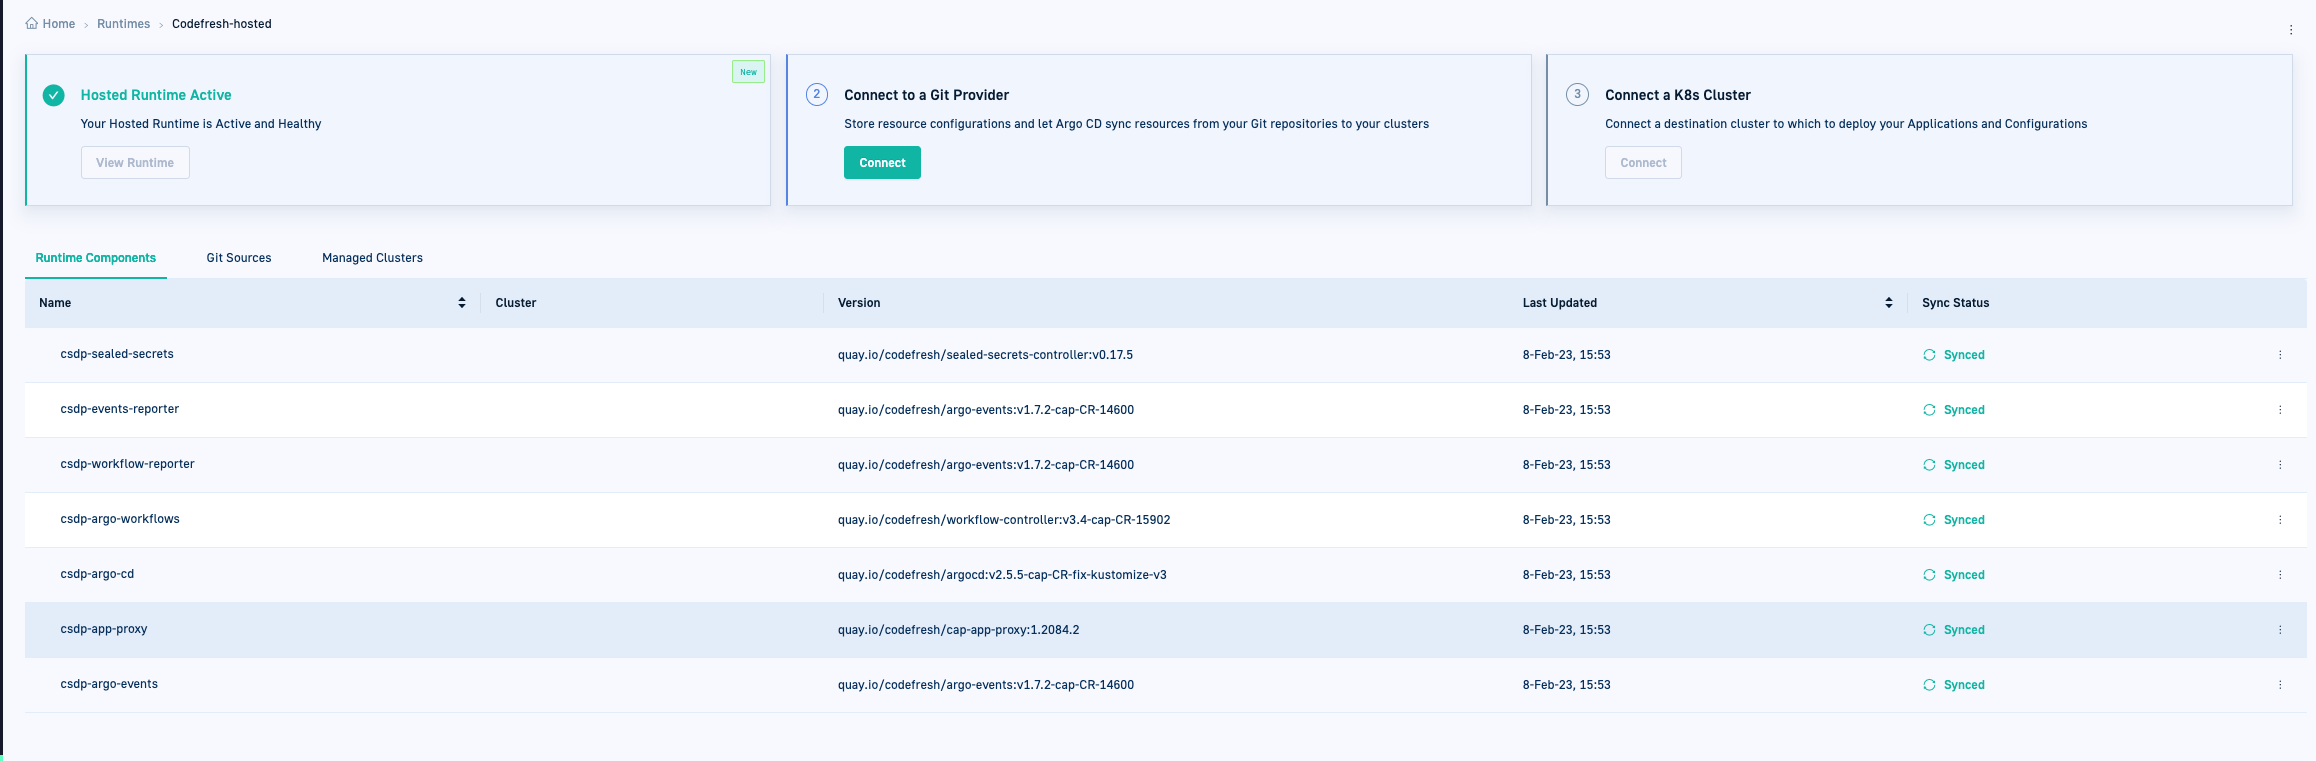
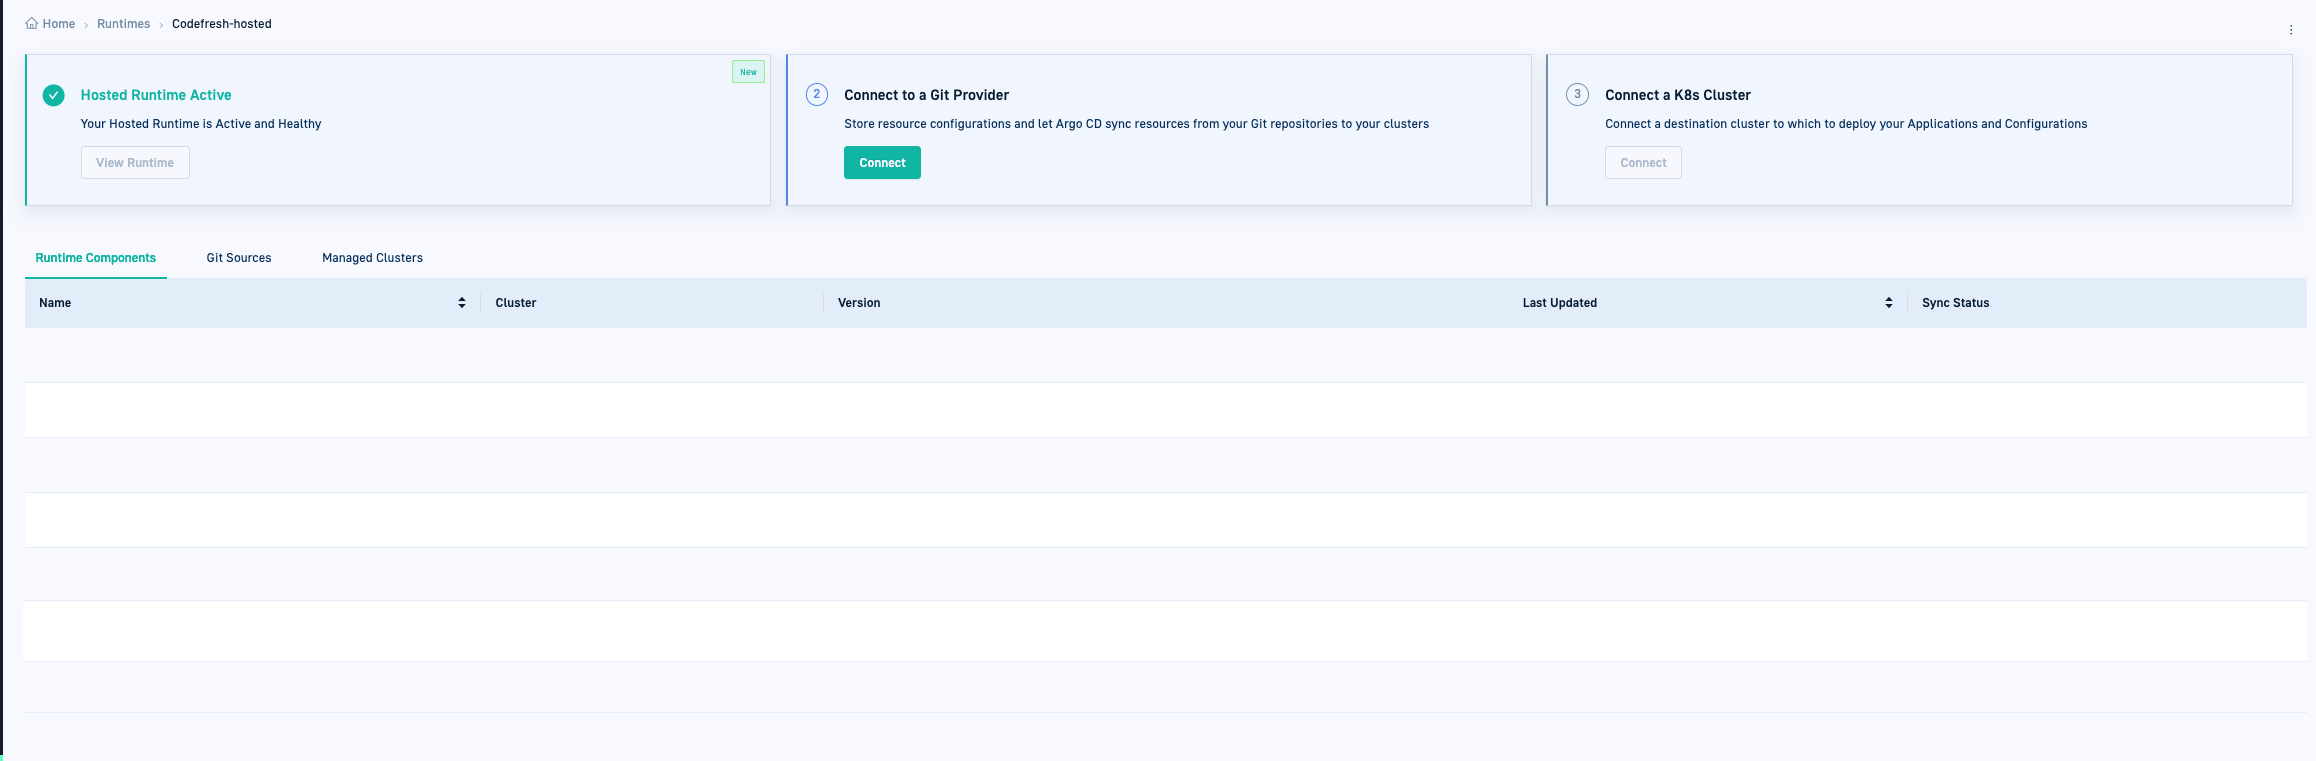
Updated hosted runtime
Updated screenshot and added note on empty Runtime Components tab

diff --git a/_docs/installation/gitops/hosted-runtime.md b/_docs/installation/gitops/hosted-runtime.md
@@ -47,8 +47,8 @@ max-width="80%"
 
 
 
-## Before you begin
-* Set up integrations with the Git provider for the Hosted GitOps Runtime
+## Prerequisites
+* Set up integrations with the Git provider for the Hosted GitOps Runtime:
   * GitHub
   * Bitbucket Cloud
   * Gerrit
@@ -86,7 +86,8 @@ max-width="80%"
 
 {:start="3"}
 1. When complete, to view the components for the Hosted GitOps Runtime, click **View Runtime**.
-  You are directed to the Runtime Components tab.  
+  You are directed to the Runtime Components tab which is empty as Runtime components are hosted and managed by Codefresh.   
+  When Argo Rollouts are deployed on target clusters, the Runtime Components tab displays rollout reporters as their manifests are stored in the customer's Shared Configuration Repository created for the Runtime (described in Step 2). 
 
 {% include
 image.html
@@ -116,35 +117,7 @@ caption="Hosted GitOps Runtime in List view"
 max-width="70%"
 %}
 
-<!--- Ask Idan if to keep this:
-### Troubleshoot failed Hosted GitOps Runtime installation
-Your Hosted GitOps Runtime may fail to install with an error as in the image below. We are closely moinitoring the Hosted GitOps Runtime installation process and activley working to prevent and iron out all installation errors. Follow the instructions to uninstall and reinstall the Hosted GitOps Runtime.
 
-{% include
-image.html
-lightbox="true"
-file="/images/runtime/hosted-runtime-error.png"
-url="/images/runtime/hosted-runtime-error.png"
-alt="Hosted runtime installation error"
-caption="Hosted runtime installation error"
-max-width="70%"
-%}
-
-
-1. Download the CLI
-  * If you have installed the Codefresh CLI already, make sure you have the latest version:  
-     `cf version`  
-     To compare with the latest version from Codefresh, [click here](https://github.com/codefresh-io/cli-v2/releases){:target="\_blank"}.  
-  * [Download the CLI]({{site.baseurl}}/docs/clients/csdp-cli/).
-
-1. Uninstall the failed Hosted GitOps Runtime:  
-  `cf runtime uninstall codefresh-hosted --force`  
-  where:  
-  `hosted-codefresh` is the name of your Hosted GitOps Runtime, automatically assigned by Codefresh.
-1. In the Codefresh UI, return to Codefresh [Home](https://g.codefresh.io/2.0/?time=LAST_7_DAYS){:target="\_blank"}.
-1. Refresh the page and start with [Step 1: Install Hosted GitOps Runtime](#step-1-install-hosted-gitops-runtime).
-
--->
 ## Step 2: Connect Git provider
 Connect your Hosted GitOps Runtime to a Git provider for Codefresh to create the required Git repos.  
 
@@ -166,7 +139,7 @@ max-width="80%"
 %}
 
 
-Once you authorize access, Codefresh creates two Git repositories, one to store the configuration settings for GitOps Runtimes, and the other to store the Runtime's application settings:
+Once you authorize access, Codefresh creates two Git repositories, one to store the configuration settings for GitOps Runtimes, and the other to store the Runtime's application settings as a Git Source:
 * Shared Configuration Repository  
   The Shared Configuration Repository is a centralized Git repository that stores configuration settings for the Hosted GitOps Runtime. Additional Hybrid runtimes provisioned for the account can point to this repo to retrieve and reuse the configuration.  
   Read about [Shared Configuration Repositories]({{site.baseurl}}/docs/installation/gitops/shared-configuration/).
@@ -176,11 +149,11 @@ Once you authorize access, Codefresh creates two Git repositories, one to store 
   Codefresh creates a Git Source application repo for every Hosted GitOps Runtime.  
   Read about [Git sources]({{site.baseurl}}/docs/installation/gitops/git-sources/).
 
-### Before you begin
+##### Before you begin
 Make sure you have the credentials for the Git provider handy
 
 
-### How to 
+##### How to 
 
 1. From the list, select the Git provider.
 1. Enter the credentials for the selected Git provider:  
@@ -240,7 +213,7 @@ max-width="70%"
 1. Optional. To see your tokens, click **View Tokens**. 
 
 If you return to the Runtimes page and select the Git Source tab, you will now see the Git Source that Codefresh created.  
-The Sync State may be Unknown for a few moments until it is synced to the Codefresh cluster. 
+The Sync State may be Unknown for a few moments until the Git Source is synced to the Codefresh cluster. 
 
 {% include
 image.html
@@ -269,10 +242,10 @@ caption="Step 3: Connect a K8s cluster for Hosted GitOps Runtime"
 max-width="70%" 
 %}
 
-**Before you begin**  
+##### Before you begin
 * Make sure your cluster has internet access  
 
-**How to**  
+##### How to 
 1. Click **Connect**.
 1. In the Add Managed Cluster panel, copy the command `cf cluster add`, and run it in the terminal.  
 1. When prompted to select the `kube-context`, select from the list of available clusters as defined in `kubeconfig`.  
